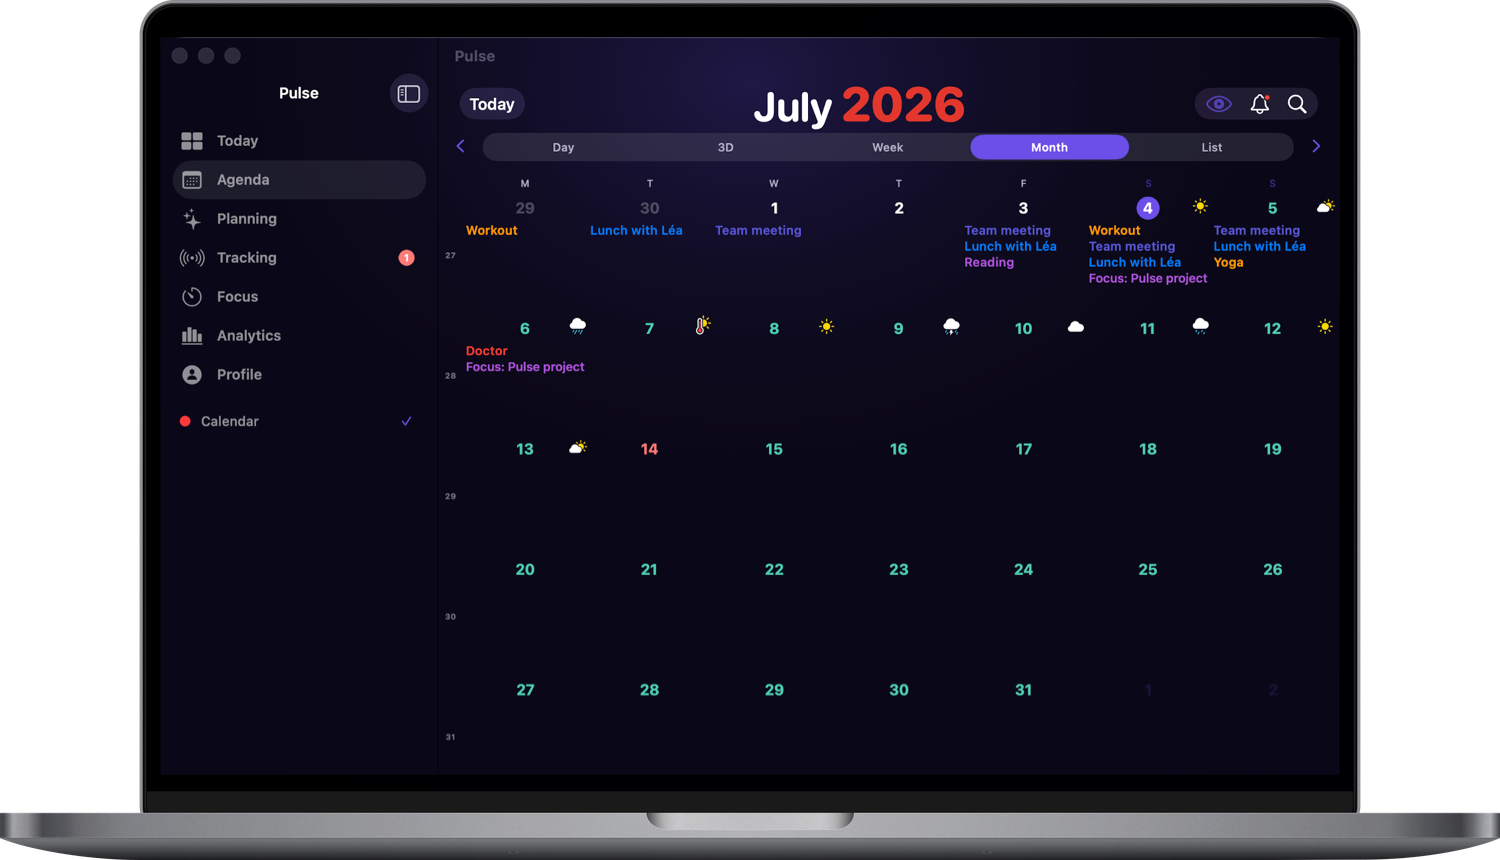
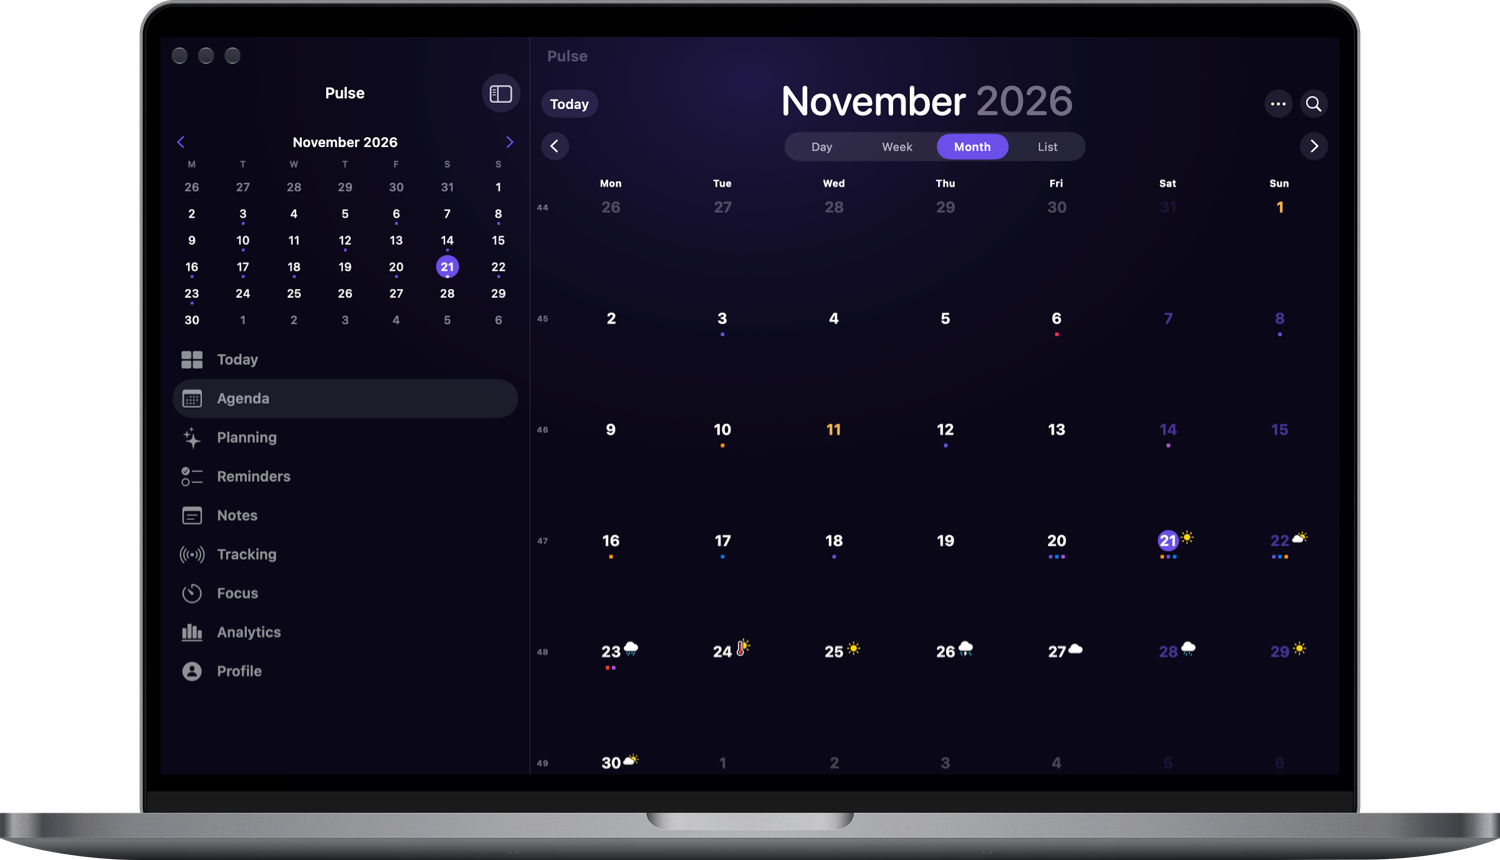
Site : MacBook refait avec la nouvelle app Mac (année grise, novembre 2026), 9 langues
Captures de la copie Mac isolée (build 108), posées dans l'écran du MacBook ; MACV 6.

diff --git a/index.html b/index.html
@@ -287,7 +287,7 @@
     <div class="device-glow"></div>
     <img class="dev-duo" src="assets/screens/duo-device.webp?v=1" alt="PulseCalendar sur iPhone Duo déplié, vue Semaine" loading="lazy" width="1200" height="860">
     <img class="dev-iphone" src="assets/screens/iphone-device.webp?v=4" alt="PulseCalendar sur iPhone, écran Suivi" loading="lazy" width="600" height="1246">
-    <img class="dev-mac" src="assets/screens/macbook-device.png?v=5" alt="PulseCalendar sur MacBook Pro — vue Mois" loading="lazy" width="1500" height="860">
+    <img class="dev-mac" src="assets/screens/macbook-device.png?v=6" alt="PulseCalendar sur MacBook Pro — vue Mois" loading="lazy" width="1500" height="860">
     <img class="dev-ipad" src="assets/screens/ipad-device.webp?v=4" alt="PulseCalendar sur iPad Pro — Aujourd'hui" loading="lazy" width="760" height="992">
     <img class="dev-watch" src="assets/screens/watch-device.webp?v=2" alt="PulseCalendar sur Apple Watch Ultra — vue Mois" loading="lazy" width="600" height="960">
   </div>

diff --git a/shared/screens-i18n.js b/shared/screens-i18n.js
@@ -9,7 +9,7 @@
   var LANGS = { fr:1, de:1, es:1, ja:1, ko:1, ar:1, ru:1, "zh-Hans":1, "en-US":1 }; // langues avec jeu localisé (en-US = captures °F, repli racine)
   var V = 12;  // version de cache des captures téléphone — v12 (21/11/2026) : JPEG, barre en bulles et année grise
   var DV = 4;  // version de cache des images device (ipad-device / iphone-device) — v4 : WebP transparents
-  var MACV = 5; // macbook-device en PNG (21/11/2026) : le calendrier remplit tout l'écran, plus de fond blanc
+  var MACV = 6; // macbook-device en PNG (21/11/2026, soir) : captures Mac neuves, année grise, plein écran
   var DUOV = 1; // version de cache de duo-device (iPhone Duo déplié)
 
   function curLang() {
